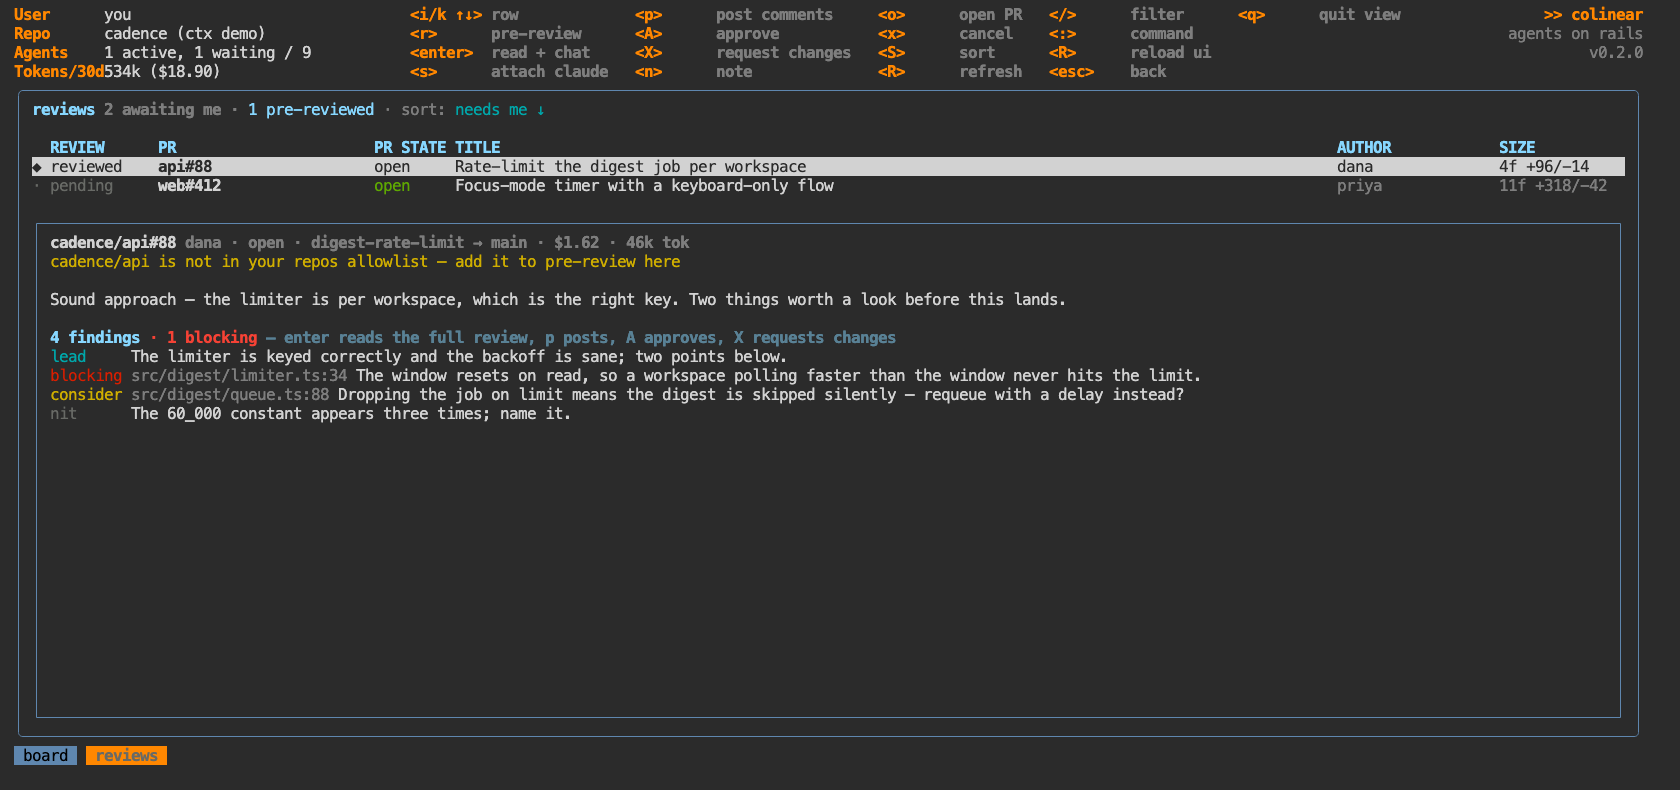
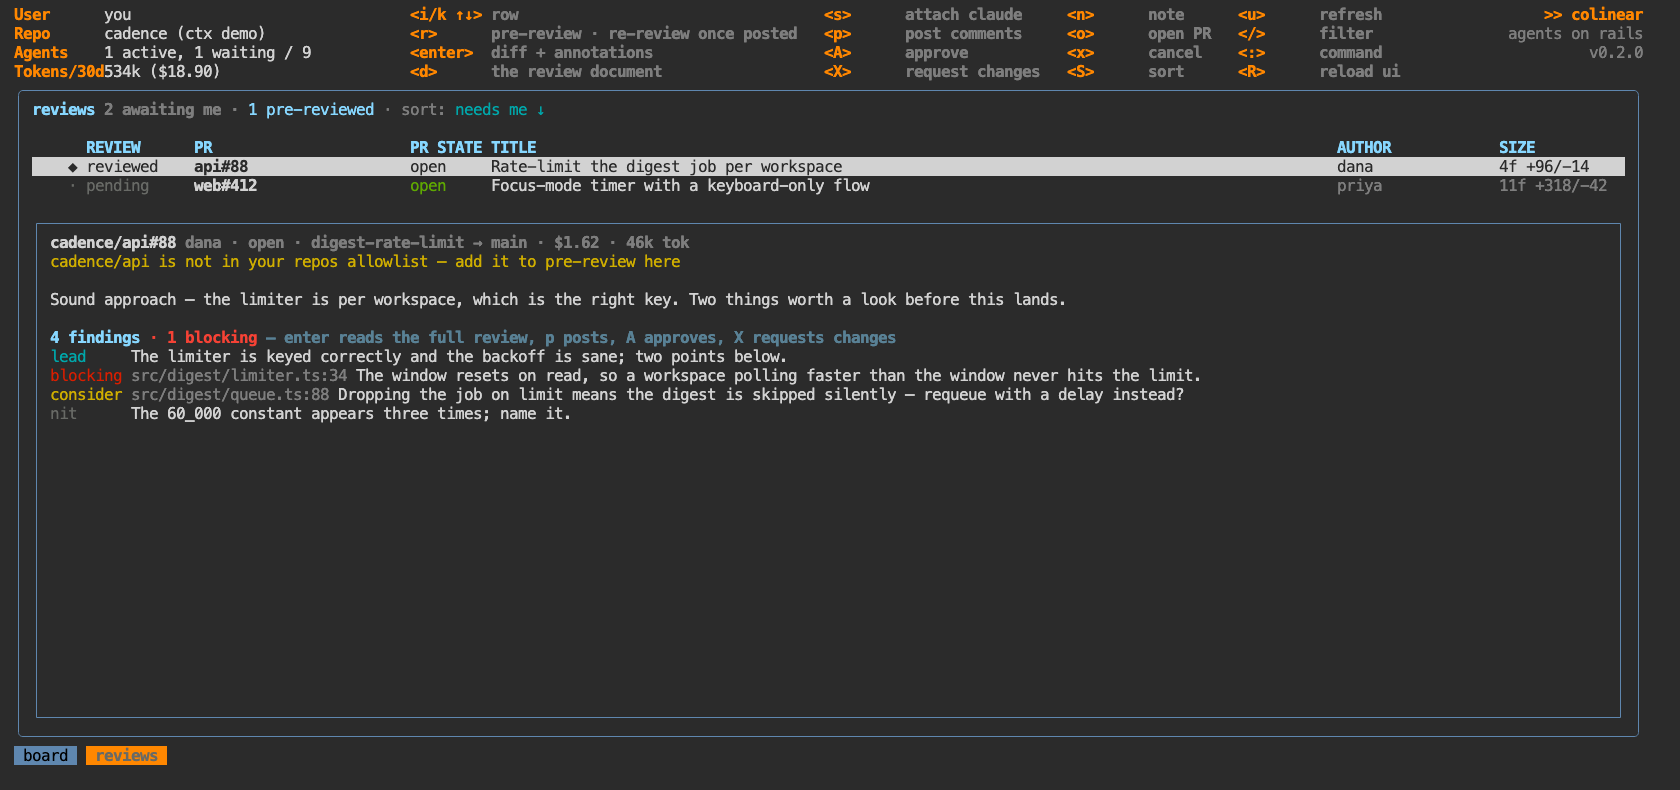
Refresh the review queue screenshot (#112)
* The annotated diff's keys, in one place

reviews.md explains the annotation flow well and at length — the margin, the
severities, the kind picker, blocks, asking what a passage does — but only in
prose, spread over a hundred and thirty lines. Its `## Keys` table covers the
list alone, so the view where all of that actually happens had no quick
reference. `:diff`, which is the same view pointed at your own branch, has had
one all along.

Read off the key handler rather than transcribed from a screenshot, so the
movement keys that were never written down anywhere — `space`/`pageup` by the
page, `g`/`G` to the ends — are in it too.

* Refresh the review queue screenshot

Captured from `coli demo` in ttyd at 183x41, the width where the header's key
grid stops truncating. The previous one predates the review work of the last
fortnight — the key grid it shows no longer matches the keys.

The alt text still describes it exactly, so only the bytes change.

One thing worth writing down for the next capture, because the documented
workaround did not survive contact: viewport emulation leaves xterm's canvas
allocated for a devicePixelRatio of 2 while the browser reports 1, so the
terminal draws at half scale. Toggling fontSize does rebuild the canvas — it
comes back at the same 2x ratio, so it does not help. Resizing each canvas
backing store to its CSS box and forcing a repaint does:

  for (const c of document.querySelectorAll('canvas'))
[…]

Changed region(s): [[0.2786, 0.0, 0.8357, 0.1215], [0.2167, 0.1823, 0.5262, 0.243], [0.031, 0.1823, 0.1548, 0.243]]

diff --git a/CLAUDE.md b/CLAUDE.md
@@ -32,7 +32,7 @@ Smoke boot: `LINEAR_API_KEY=lin_api_dummy script -q /dev/null timeout 5 npm run 
 
 To exercise anything config- or state-shaped without touching live work, run against a throwaway `HOME` (`HOME=/tmp/x npx tsx src/index.tsx contexts`) or set `COLINEAR_STATE_DIR` — both give the run its own config, socket, pidfile and state.
 
-Screenshots (`docs/images/`) are captured from `coli demo` in a real pty — [ttyd](https://github.com/tsl0922/ttyd) on localhost driven by a browser — because a headless render harness verifies views but not daemon behaviour; the real pty is what caught the three demo bugs in PR #34. Two things bite: **start `coli` after sizing the window** (Ink draws to the size it had at boot), and **after every resize, toggle `term.options.fontSize` to force xterm to re-init its canvas** — browser viewport emulation drops `devicePixelRatio` to 1 while the backing store is still 2x, which renders the whole terminal at half scale. 1680×790 at fontSize 16 gives 183×41, the first width where the header's key grid stops truncating.
+Screenshots (`docs/images/`) are captured from `coli demo` in a real pty — [ttyd](https://github.com/tsl0922/ttyd) on localhost driven by a browser — because a headless render harness verifies views but not daemon behaviour; the real pty is what caught the three demo bugs in PR #34. Three things bite. **Start `coli` after sizing the window** (Ink draws to the size it had at boot). **Viewport emulation drops `devicePixelRatio` to 1 while xterm's canvas stays allocated for 2x**, so the terminal draws at half scale; toggling `term.options.fontSize` does rebuild the canvas but it comes back at the same 2x ratio, so what actually fixes it is shrinking each backing store to its CSS box and repainting — `for (const c of document.querySelectorAll('canvas')) if (c.width !== c.clientWidth) { c.width = c.clientWidth; c.height = c.clientHeight; }` then `term.refresh(0, term.rows - 1)`. And **`term.paste()` renders without reaching the shell** — `term._core.coreService.triggerDataEvent(s, true)` is what sends. 1680×790 at fontSize 16 gives 183×41, the first width where the header's key grid stops truncating.
 
 ## Rules
 
